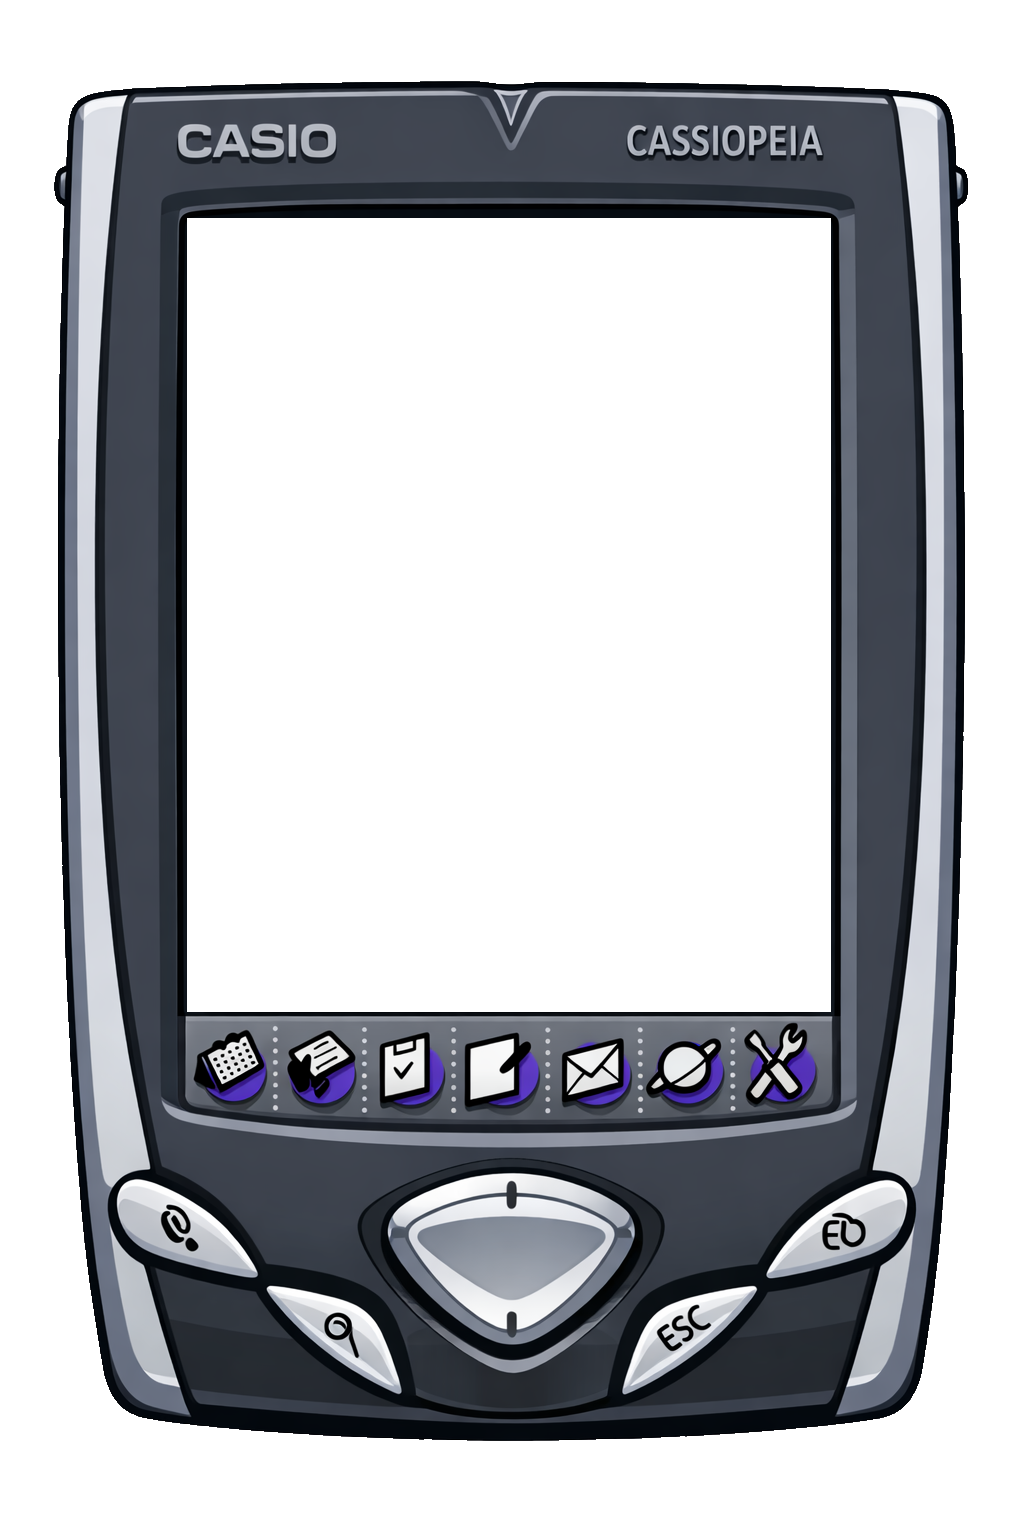
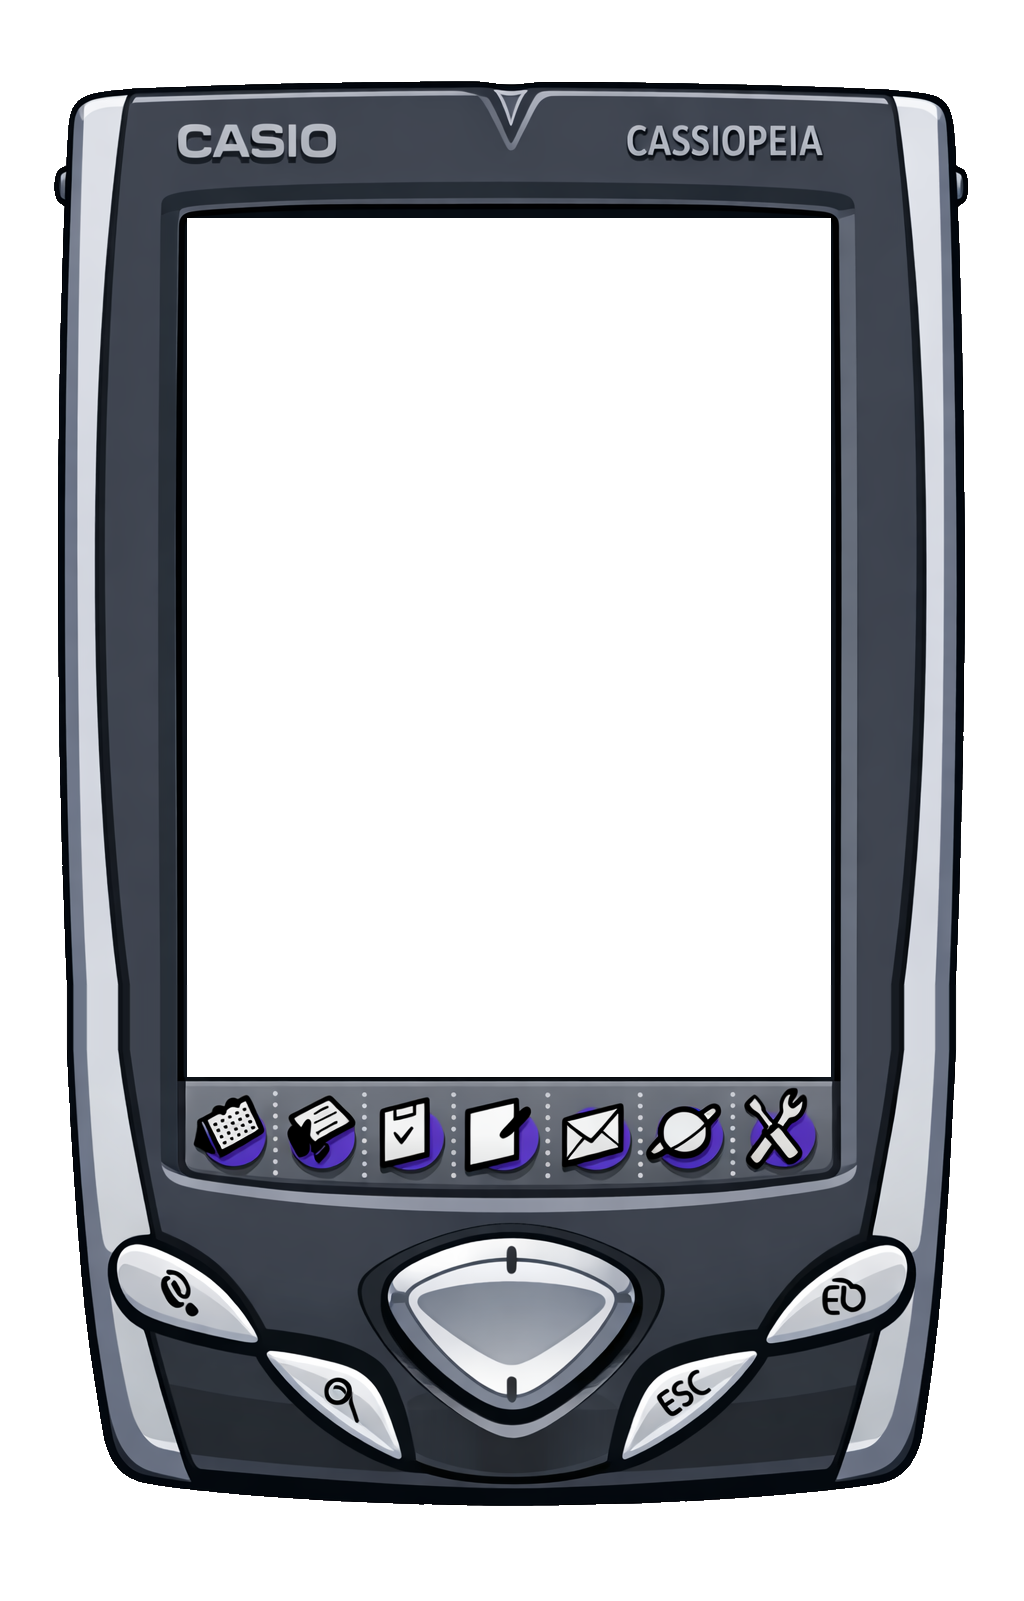
Regenerate web bezel asset with taller screen opening
Tried: replaced the CSS/SVG cutout workaround with a web-specific bezel PNG derived from the Android frame art by inserting a repeated screen-edge row above the icon strip, which increases the real transparent opening from 644x794 to 644x859 without distorting the screen width.

Outcome: success. The web bezel asset is now 1024x1601 with a native transparent screen hole sized for the full 240x320 framebuffer, the web UI switched back to a plain PNG overlay, the frame aspect ratio and viewport percentages were updated to the new asset geometry, and the be300_web target rebuilt cleanly.

Learned: modifying the asset itself is the correct fix here because the original Android bezel art simply did not have a tall enough screen opening for a full 3:4 framebuffer; once the PNG hole matches the intended display, the web layout becomes much simpler and more robust.

Next step: hard-refresh the served web app and verify that the full framebuffer is visible top-to-bottom inside the bezel, with the lower icon strip/buttons pushed down by the taller web-specific frame art.

diff --git a/web/index.html b/web/index.html
@@ -32,20 +32,7 @@
           <div class="screen-viewport">
             <canvas id="screen" width="240" height="320"></canvas>
           </div>
-          <svg class="device-frame-overlay" viewBox="0 0 1024 1536" aria-hidden="true" focusable="false">
-            <defs>
-              <mask id="be300-frame-hole-mask" maskUnits="userSpaceOnUse">
-                <rect x="0" y="0" width="1024" height="1536" fill="white"></rect>
-                <rect x="187" y="218" width="644" height="859" fill="black"></rect>
-              </mask>
-            </defs>
-            <image
-              href="./be300_frame.png"
-              width="1024"
-              height="1536"
-              preserveAspectRatio="none"
-              mask="url(#be300-frame-hole-mask)"></image>
-          </svg>
+          <img class="device-frame-overlay" src="./be300_frame.png" alt="" aria-hidden="true">
         </div>
       </div>
       <div class="controls-grid">

diff --git a/web/styles.css b/web/styles.css
@@ -124,16 +124,16 @@ button:not(:disabled):hover {
 .device-frame {
   position: relative;
   width: min(100%, 460px);
-  aspect-ratio: 1024 / 1536;
+  aspect-ratio: 1024 / 1601;
   filter: drop-shadow(0 28px 50px rgba(0, 0, 0, 0.35));
 }
 
 .screen-viewport {
   position: absolute;
   left: 18.2617%;
-  top: 14.1927%;
+  top: 13.6165%;
   width: 62.8906%;
-  height: 55.9245%;
+  height: 53.6540%;
   display: grid;
   place-items: center;
   overflow: hidden;
